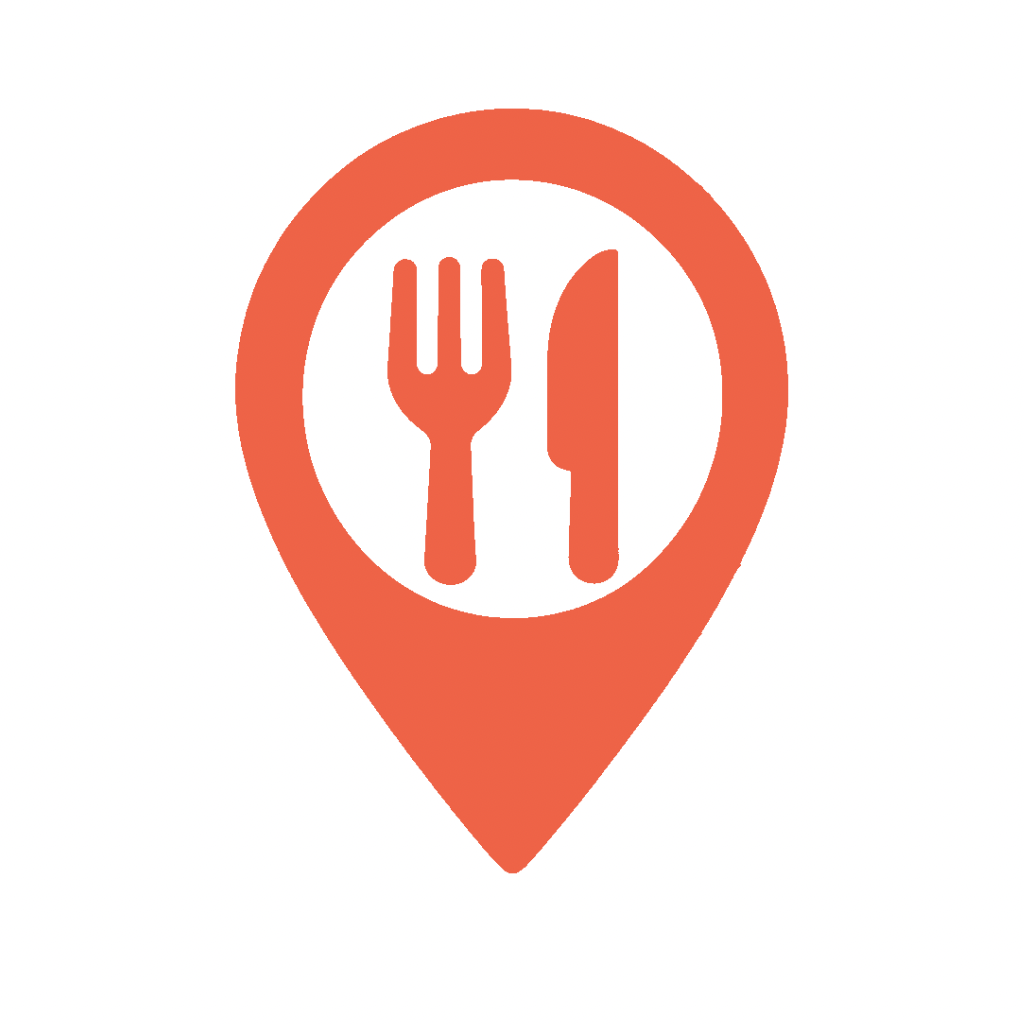
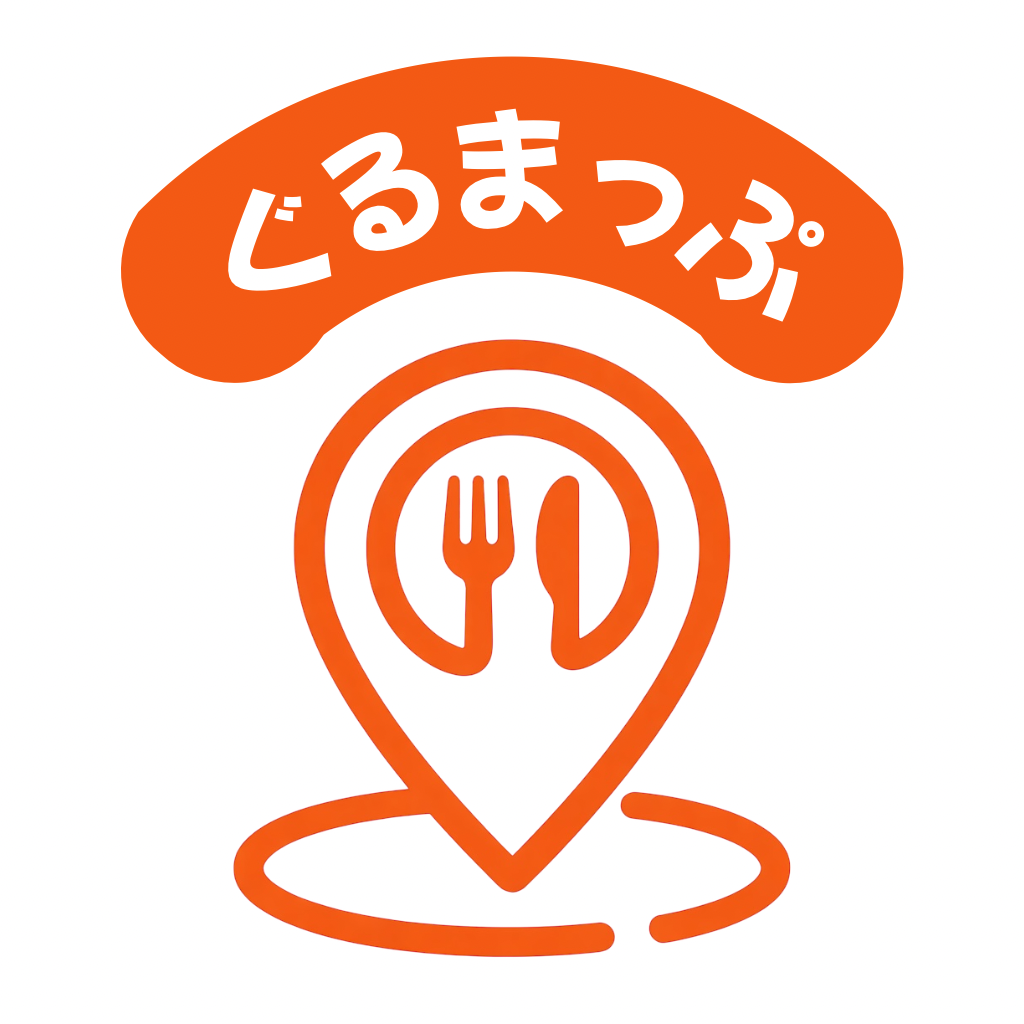
Rename GrouMap labels to ぐるまっぷ and update assets

diff --git a/app/page.tsx b/app/page.tsx
@@ -22,7 +22,7 @@ type AppProject = {
 
 const appProjects: AppProject[] = [
   {
-    name: "GrouMap",
+    name: "ぐるまっぷ",
     subtitle: "中小規模飲食店向けポイントアプリ",
     iconImage: "/images/groumap-icon.png",
     appStoreLink: "https://apps.apple.com/jp/app/groumap/id6757521236",
@@ -41,7 +41,7 @@ const appProjects: AppProject[] = [
     },
   },
   {
-    name: "GrouMap店舗用",
+    name: "ぐるまっぷ店舗用",
     subtitle: "GrouMap店舗用アプリ。顧客管理、データ分析、情報発信。",
     iconImage: "/images/groumap-store-icon.png",
     appStoreLink: "https://apps.apple.com/jp/app/groumap%E5%BA%97%E8%88%97%E7%94%A8/id6757588727",
